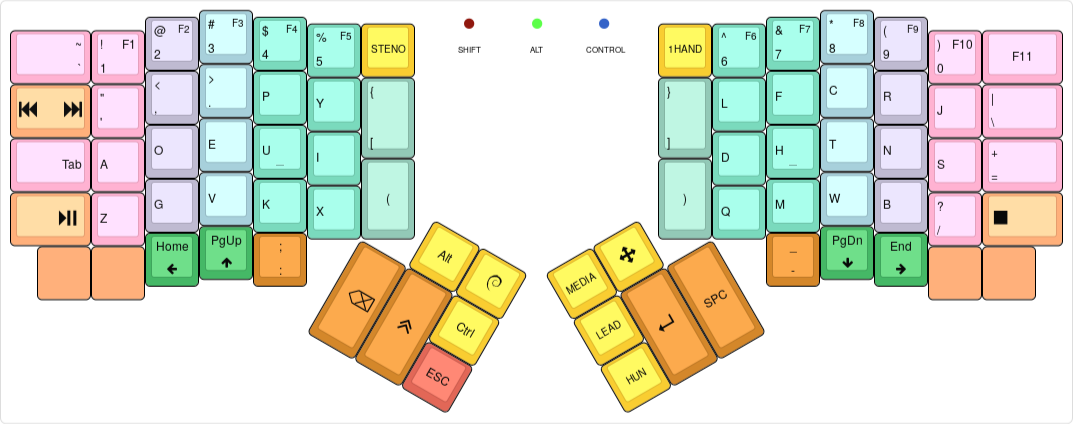
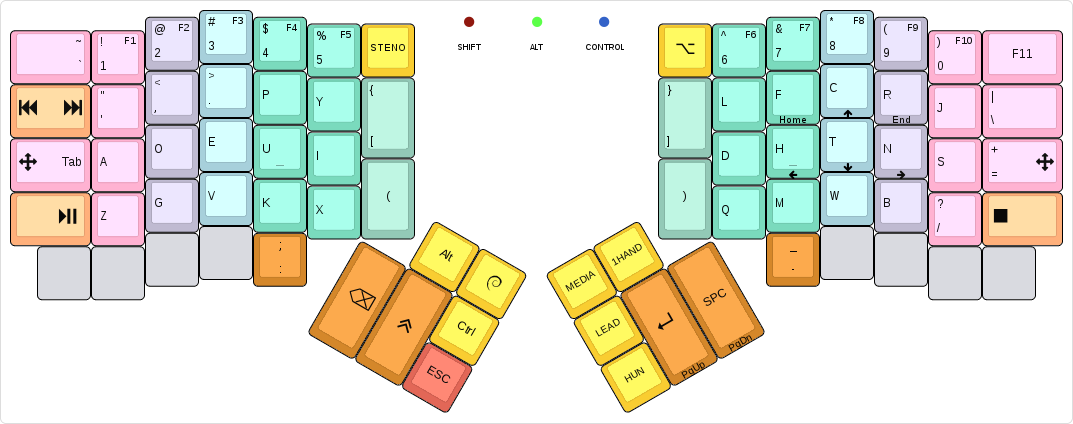
Yet another arrow & navigation redesign
Use the Tab and = keys as temporary arrow layer switches too.

Fixes #66.

diff --git a/keymap.c b/keymap.c
@@ -124,18 +124,18 @@ const uint16_t PROGMEM keymaps[][MATRIX_ROWS][MATRIX_COLS] = {
 /* Keymap 0: Base Layer
  *
  * ,-----------------------------------------------------.           ,-----------------------------------------------------.
- * |        `~ | 1 F1 | 2 F2 | 3 F3 | 4 F4 | 5 F5 | Plvr |           | 1HND | 6 F6 | 7 F7 | 8 F8 | 9 F9 | 0 F10|       F11 |
+ * |        `~ | 1 F1 | 2 F2 | 3 F3 | 4 F4 | 5 F5 | Plvr |           | Apps | 6 F6 | 7 F7 | 8 F8 | 9 F9 | 0 F10|       F11 |
  * |-----------+------+------+------+------+-------------|           |------+------+------+------+------+------+-----------|
  * | Next/Prev |   '  |   ,  |   .  |   P  |   Y  |   [  |           |  ]   |   F  |   G  |   C  |   R  |  L   | \         |
  * |-----------+------+------+------+------+------|      |           |      |------+------+------+------+------+-----------|
- * |       Tab |   A  |   O  |   E  |   U  |   I  |------|           |------|   D  |   H  |   T  |   N  |  S   | =         |
+ * | Tab/ARROW |   A  |   O  |   E  |   U  |   I  |------|           |------|   D  |   H  |   T  |   N  |  S   | = / Arrow |
  * |-----------+------+------+------+------+------|   (  |           |  )   |------+------+------+------+------+-----------|
  * | Play/Pause|   /  |   Q  |   J  |   K  |   X  |      |           |      |   B  |   M  |   W  |   V  |  Z   |      Stop |
  * `-----------+------+------+------+------+-------------'           `-------------+------+------+------+------+-----------'
- *     |       |      | Left |  Up  |   :  |                                       |   -  | Down | Rght |      |       |
+ *     |       |      |      |      |   :  |                                       |   -  |      |      |      |       |
  *     `-----------------------------------'                                       `-----------------------------------'
  *                                         ,-------------.           ,-------------.
- *                                         | LAlt | GUI  |           | MDIA | ARRW |
+ *                                         | LAlt | GUI  |           | MDIA | 1HND |
  *                                  ,------|------|------|           |------+------+------.
  *                                  |      |      | Ctrl |           | LEAD |      |      |
  *                                  |Backsp|LShift|------|           |------| Enter| Space|
@@ -146,22 +146,22 @@ const uint16_t PROGMEM keymaps[][MATRIX_ROWS][MATRIX_COLS] = {
 // left hand
  KC_GRV             ,M(KF_1)     ,M(KF_2)     ,M(KF_3),M(KF_4),M(KF_5),M(A_PLVR)
 ,M(A_MPN)           ,KC_QUOT     ,KC_COMM     ,KC_DOT ,KC_P   ,KC_Y   ,KC_LBRC
-,KC_TAB             ,KC_A        ,KC_O        ,KC_E   ,KC_U   ,KC_I
+,LT(ARRW,KC_TAB)    ,KC_A        ,KC_O        ,KC_E   ,KC_U   ,KC_I
 ,KC_MPLY            ,KC_SLSH     ,KC_Q        ,KC_J   ,KC_K   ,KC_X   ,KC_LPRN
-,KC_NO              ,KC_NO       ,KC_LEFT     ,KC_UP  ,CT_CLN
+,KC_NO              ,KC_NO       ,KC_NO       ,KC_NO  ,CT_CLN
 
                                                             ,F(F_ALT),F(F_GUI)
                                                                      ,F(F_CTRL)
                                                     ,KC_BSPC,F(F_SFT),M(A_ESC)
 
                                                                 // right hand
-                                                               ,M(OH_LEFT),M(KF_6),M(KF_7),M(KF_8),M(KF_9)     ,M(KF_10)    ,KC_F11
-                                                               ,KC_RBRC   ,KC_F   ,KC_G   ,KC_C   ,KC_R        ,KC_L        ,KC_BSLS
-                                                                          ,KC_D   ,KC_H   ,KC_T   ,KC_N        ,KC_S        ,KC_EQL
-                                                               ,KC_RPRN   ,KC_B   ,KC_M   ,KC_W   ,KC_V        ,KC_Z        ,KC_MSTP
-                                                                                  ,KC_MINS,KC_DOWN,KC_RGHT     ,KC_NO       ,KC_NO
+                                                               ,KC_APP    ,M(KF_6),M(KF_7),M(KF_8),M(KF_9) ,M(KF_10) ,KC_F11
+                                                               ,KC_RBRC   ,KC_F   ,KC_G   ,KC_C   ,KC_R    ,KC_L     ,KC_BSLS
+                                                                          ,KC_D   ,KC_H   ,KC_T   ,KC_N    ,KC_S     ,LT(ARRW, KC_EQL)
+                                                               ,KC_RPRN   ,KC_B   ,KC_M   ,KC_W   ,KC_V    ,KC_Z     ,KC_MSTP
+                                                                                  ,KC_MINS,KC_NO  ,KC_NO   ,KC_NO    ,KC_NO
 
-                                                               ,OSL(NMDIA),OSL(ARRW)
+                                                               ,OSL(NMDIA),M(OH_LEFT)
                                                                ,KC_LEAD
                                                                ,F(F_HUN)  ,KC_ENT ,KC_SPC
     ),
@@ -169,18 +169,18 @@ const uint16_t PROGMEM keymaps[][MATRIX_ROWS][MATRIX_COLS] = {
 /* Keymap 1: Experimental layer
  *
  * ,-----------------------------------------------------.           ,-----------------------------------------------------.
- * |        `~ | 1 F1 | 2 F2 | 3 F3 | 4 F4 | 5 F5 | Plvr |           | 1HND | 6 F6 | 7 F7 | 8 F8 | 9 F9 | 0 F10|       F11 |
+ * |        `~ | 1 F1 | 2 F2 | 3 F3 | 4 F4 | 5 F5 | Plvr |           | Apps | 6 F6 | 7 F7 | 8 F8 | 9 F9 | 0 F10|       F11 |
  * |-----------+------+------+------+------+-------------|           |------+------+------+------+------+------+-----------|
- * | Next/Prev |   '  |   ,  |   .  |   P  |   Y  |   [  |           |  ]   |   L  |   F  |   C  |   R  |  J   | =         |
+ * | Next/Prev |   '  |   ,  |   .  |   P  |   Y  |   [  |           |  ]   |   L  |   F  |   C  |   R  |  J   | \         |
  * |-----------+------+------+------+------+------|      |           |      |------+------+------+------+------+-----------|
- * |       Tab |   A  |   O  |   E  |   U  |   I  |------|           |------|   D  |   H  |   T  |   N  |  S   | \         |
+ * | Tab/Arrow |   A  |   O  |   E  |   U  |   I  |------|           |------|   D  |   H  |   T  |   N  |  S   | = / Arrow |
  * |-----------+------+------+------+------+------|   (  |           |  )   |------+------+------+------+------+-----------|
  * | Play/Pause|   Z  |   G  |   V  |   K  |   X  |      |           |      |   Q  |   M  |   W  |   B  |  /   |      Stop |
  * `-----------+------+------+------+------+-------------'           `-------------+------+------+------+------+-----------'
- *     |       |      | Left |  Up  |   :  |                                       |   -  | Down | Rght |      |       |
+ *     |       |      |      |      |   :  |                                       |   -  |      |      |      |       |
  *     `-----------------------------------'                                       `-----------------------------------'
  *                                         ,-------------.           ,-------------.
- *                                         | LAlt | GUI  |           | MDIA | ARRW |
+ *                                         | LAlt | GUI  |           | MDIA | 1HND |
  *                                  ,------|------|------|           |------+------+------.
  *                                  |      |      | Ctrl |           | LEAD |      |      |
  *                                  |Backsp|LShift|------|           |------| Enter| Space|
@@ -191,22 +191,22 @@ const uint16_t PROGMEM keymaps[][MATRIX_ROWS][MATRIX_COLS] = {
 // left hand
  KC_GRV             ,M(KF_1)     ,M(KF_2)     ,M(KF_3),M(KF_4),M(KF_5),M(A_PLVR)
 ,M(A_MPN)           ,KC_QUOT     ,KC_COMM     ,KC_DOT ,KC_P   ,KC_Y   ,KC_LBRC
-,KC_TAB             ,KC_A        ,KC_O        ,KC_E   ,KC_U   ,KC_I
+,LT(ARRW, KC_TAB)   ,KC_A        ,KC_O        ,KC_E   ,KC_U   ,KC_I
 ,KC_MPLY            ,KC_Z        ,KC_G        ,KC_V   ,KC_K   ,KC_X   ,KC_LPRN
-,KC_NO              ,KC_NO       ,KC_LEFT     ,KC_UP  ,CT_CLN
+,KC_NO              ,KC_NO       ,KC_NO       ,KC_NO  ,CT_CLN
 
                                                             ,F(F_ALT),F(F_GUI)
                                                                      ,F(F_CTRL)
                                                     ,KC_BSPC,F(F_SFT),M(A_ESC)
 
                                                                 // right hand
-                                                               ,M(OH_LEFT),M(KF_6),M(KF_7),M(KF_8),M(KF_9)     ,M(KF_10)    ,KC_F11
-                                                               ,KC_RBRC   ,KC_L   ,KC_F   ,KC_C   ,KC_R        ,KC_J        ,KC_BSLS
-                                                                          ,KC_D   ,KC_H   ,KC_T   ,KC_N        ,KC_S        ,KC_EQL
-                                                               ,KC_RPRN   ,KC_Q   ,KC_M   ,KC_W   ,KC_B        ,KC_SLSH     ,KC_MSTP
-                                                                                  ,KC_MINS,KC_DOWN,KC_RGHT     ,KC_NO       ,KC_NO
+                                                               ,KC_APP    ,M(KF_6),M(KF_7),M(KF_8),M(KF_9) ,M(KF_10) ,KC_F11
+                                                               ,KC_RBRC   ,KC_L   ,KC_F   ,KC_C   ,KC_R    ,KC_J     ,KC_BSLS
+                                                                          ,KC_D   ,KC_H   ,KC_T   ,KC_N    ,KC_S     ,LT(ARRW, KC_EQL)
+                                                               ,KC_RPRN   ,KC_Q   ,KC_M   ,KC_W   ,KC_B    ,KC_SLSH  ,KC_MSTP
+                                                                                  ,KC_MINS,KC_NO  ,KC_NO   ,KC_NO    ,KC_NO
 
-                                                               ,OSL(NMDIA),OSL(ARRW)
+                                                               ,OSL(NMDIA),M(OH_LEFT)
                                                                ,KC_LEAD
                                                                ,F(F_HUN)  ,KC_ENT ,KC_SPC
     ),
@@ -216,19 +216,19 @@ const uint16_t PROGMEM keymaps[][MATRIX_ROWS][MATRIX_COLS] = {
  * ,-----------------------------------------------------.           ,-----------------------------------------------------.
  * |           |      |      |      |      |      |      |           |      |      |      |      |      |      |           |
  * |-----------+------+------+------+------+-------------|           |------+------+------+------+------+------+-----------|
- * |           |      |      |      |      |      |      |           |      |      |      |      |      |      |           |
+ * |           |      |      |      |      |      |      |           |      |      | Home |  Up  |  End |      |           |
  * |-----------+------+------+------+------+------|      |           |      |------+------+------+------+------+-----------|
- * |           |      |      |      |      |      |------|           |------|      |      |      |      |      |           |
+ * |           |      |      |      |      |      |------|           |------|      | Left | Down | Rght |      |           |
  * |-----------+------+------+------+------+------|      |           |      |------+------+------+------+------+-----------|
  * |           |      |      |      |      |      |      |           |      |      |      |      |      |      |           |
  * `-----------+------+------+------+------+-------------'           `-------------+------+------+------+------+-----------'
- *      |      |      | Home | PgUp |      |                                       |      | PgDn | End  |      |      |
+ *      |      |      |      |      |      |                                       |      |      |      |      |      |
  *      `----------------------------------'                                       `----------------------------------'
  *                                         ,-------------.           ,-------------.
  *                                         |      |      |           |      |      |
  *                                  ,------|------|------|           |------+------+------.
  *                                  |      |      |      |           |      |      |      |
- *                                  |      |      |------|           |------|      |      |
+ *                                  |      |      |------|           |------| PgUp | PgDn |
  *                                  |      |      |      |           |      |      |      |
  *                                  `--------------------'           `--------------------'
  */
@@ -239,7 +239,7 @@ const uint16_t PROGMEM keymaps[][MATRIX_ROWS][MATRIX_COLS] = {
 ,KC_TRNS ,KC_TRNS    ,KC_TRNS   ,KC_TRNS    ,KC_TRNS    ,KC_TRNS    ,KC_TRNS
 ,KC_TRNS ,KC_TRNS    ,KC_TRNS   ,KC_TRNS    ,KC_TRNS    ,KC_TRNS
 ,KC_TRNS ,KC_TRNS    ,KC_TRNS   ,KC_TRNS    ,KC_TRNS    ,KC_TRNS    ,KC_TRNS
-,KC_TRNS ,KC_TRNS    ,KC_HOME   ,KC_PGUP    ,KC_TRNS
+,KC_TRNS ,KC_TRNS    ,KC_TRNS   ,KC_TRNS    ,KC_TRNS
 
                                              ,KC_TRNS ,KC_TRNS
                                                       ,KC_TRNS
@@ -247,14 +247,14 @@ const uint16_t PROGMEM keymaps[][MATRIX_ROWS][MATRIX_COLS] = {
 
                                                                 // right hand
                                                                ,KC_TRNS ,KC_TRNS ,KC_TRNS ,KC_TRNS ,KC_TRNS ,KC_TRNS ,KC_TRNS
+                                                               ,KC_TRNS ,KC_TRNS ,KC_HOME ,KC_UP   ,KC_END  ,KC_TRNS ,KC_TRNS
+                                                                        ,KC_TRNS ,KC_LEFT ,KC_DOWN ,KC_RGHT ,KC_TRNS ,KC_TRNS
                                                                ,KC_TRNS ,KC_TRNS ,KC_TRNS ,KC_TRNS ,KC_TRNS ,KC_TRNS ,KC_TRNS
-                                                                        ,KC_TRNS ,KC_TRNS ,KC_TRNS ,KC_TRNS ,KC_TRNS ,KC_TRNS
-                                                               ,KC_TRNS ,KC_TRNS ,KC_TRNS ,KC_TRNS ,KC_TRNS ,KC_TRNS ,KC_TRNS
-                                                                                 ,KC_TRNS ,KC_PGDN ,KC_END  ,KC_TRNS ,KC_TRNS
+                                                                                 ,KC_TRNS ,KC_TRNS ,KC_TRNS ,KC_TRNS ,KC_TRNS
 
                                                                ,KC_TRNS ,KC_TRNS
                                                                ,KC_TRNS
-                                                               ,KC_TRNS ,KC_TRNS ,KC_TRNS
+                                                               ,KC_TRNS ,KC_PGUP ,KC_PGDN
     ),
 
 /* Keymap 3: Application select layer

diff --git a/readme.md b/readme.md
@@ -36,8 +36,8 @@ At its core, this is a Dvorak layout, with some minor changes. The more interest
 * The `Shift`, `Alt`, and `Control` modifiers are one-shot. When tapped, they are considered active for the next key press only. When double tapped, they toggle on, until a third, single tap sometime later. When held, they act as expected. My usual pattern is that I use these for the next keypress only, so this behaviour is perfect. If I need them held, I'll just double-tap.
 * The `GUI` key is special, because when I double-tap it, it sends `GUI + w`, which pops up an application selector. It also switches to a one-shot layer, where the number row on the left half turns into app selector macros, for the most common things I usually want to switch to. Otherwise it behaves as on a normal layout.
 * The `ESC` key also doubles as a one-shot cancel key: if tapped while any of the one-shot modifiers are in-flight (as in, single-tapped, and not expired yet), it cancels all one-shot modifiers. It also cancels the **Hun** layer, if active. Otherwise it sends the usual keycode.
-* The **Media**, **Arrow**, and **Hun** layer keys are one-shot, the **1Hand** and **STENO** keys are toggles.
-* Toggling the **Arrow** layer toggles between the cursor arrows and the paging keys on the bottom row.
+* The **Media** and **Hun** layer keys are one-shot, the **1Hand** and **STENO** keys are toggles.
+* When holding any of the **Arrow** layer keys, the arrow layer activates while the layer key is held. Tapping the key produces the normal key.
 * Tapping the `:` key once yields `:`, tapping it twice yields `;`.
 * The **Lead** key allows me to type in a sequence of keys, and trigger some actions:
     - `LEAD u` enters unicode input mode, by sending the GTK+ key sequence that does this.
